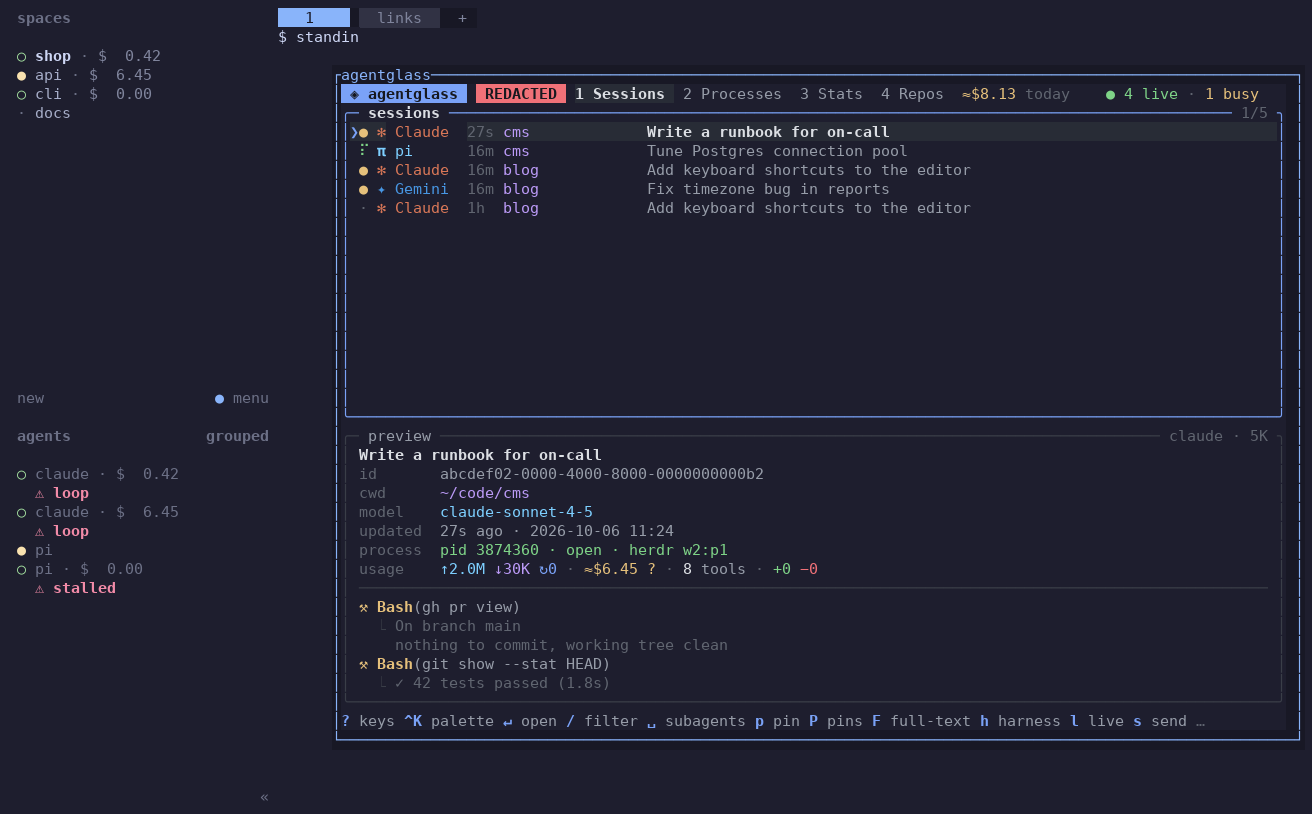
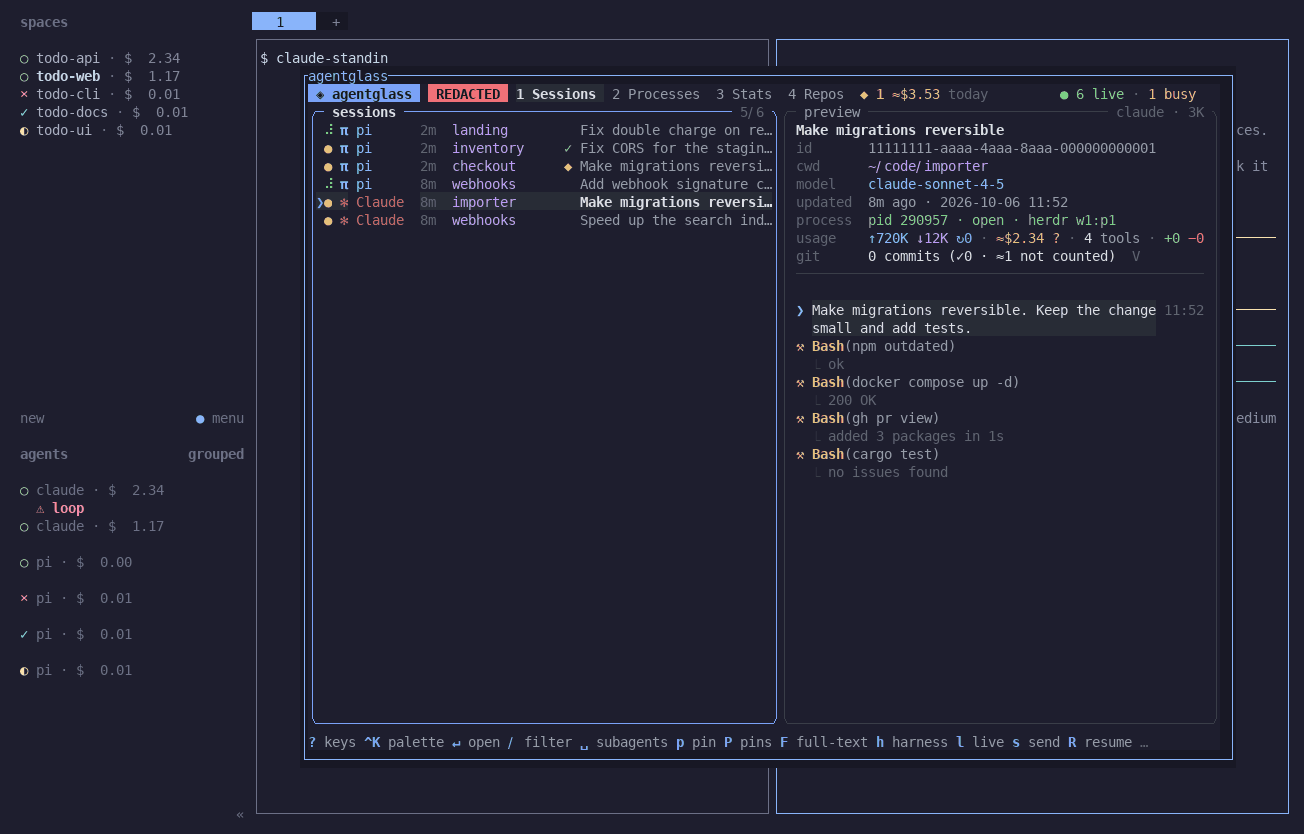
docs: README screenshots of agentglass inside herdr (popup, tokens + alert, open here, row states, workspace, popup → jump)
Taken in an isolated herdr 0.9.1 (tmux 160x45, capture-pane -e → PNG) with throwaway todo-app agents and agentglass
in --redact mode; each image checked by eye; all under 140 KB.

diff --git a/README.md b/README.md
@@ -14,11 +14,26 @@ multiplexer where your agents run:
 - **Notify recipe**: agentglass alerts that herdr cannot see (stalled, loop, long command, spinning, your own rules)
   show on the agent's pane, and critical ones become a herdr notification.
 
-| The popup (`prefix+g`) | Sidebar tokens | A loop alert |
-|---|---|---|
-| ![agentglass popup over herdr](docs/screenshots/popup.png) | ![$ag_cost and $ag_alert in the sidebar](docs/screenshots/sidebar.png) | ![herdr notification from the notify recipe](docs/screenshots/alert.png) |
+![agentglass popup over a herdr workspace](docs/screenshots/popup.png)
+*The agentglass popup (`prefix+g`) over a herdr workspace with a Claude and a pi pane; the preview names the agent's herdr pane.*
 
-<sub>Taken in an isolated herdr 0.9.1 with fake sessions; agentglass in `--redact` mode.</sub>
+![herdr sidebar with $ag_cost and $ag_alert, and a loop alert notification](docs/screenshots/sidebar-alert.png)
+*herdr's sidebar with the opt-in tokens: cost per agent and workspace, `⚠ loop` on the agent stuck in a loop, and the notify recipe's toast.*
+
+![Open in agentglass on a focused pane](docs/screenshots/open-here.png)
+*"Open in agentglass" (`prefix+G`) on the focused Claude pane lands on that agent's session.*
+
+![Sessions list with herdr row states](docs/screenshots/row-states.png)
+*herdr's state in agentglass's rows: spinner = working, `◆` = blocked at a dialog, `✓` = done and not seen yet.*
+
+![Sessions filtered to one herdr workspace](docs/screenshots/workspace.png)
+*"Sessions in this herdr workspace" (command palette) groups the sessions of one workspace (its label is hidden under `--redact`).*
+
+![Popup, then R jumps to the agent's pane](docs/screenshots/popup-jump.gif)
+*Popup → select a live agent → `R`: herdr focuses its pane and the popup closes.*
+
+<sub>All shots: an isolated herdr 0.9.1 with throwaway todo-app agents (stand-ins and a real pi), agentglass in
+`--redact` mode (fake titles and projects).</sub>
 
 POSIX sh only: no Node, no jq, no build step. The plugin talks to agentglass only through its versioned
 [CLI contract](https://github.com/BjoernSchotte/agentglass/blob/main/docs/cli-contract.md), and to herdr only through
